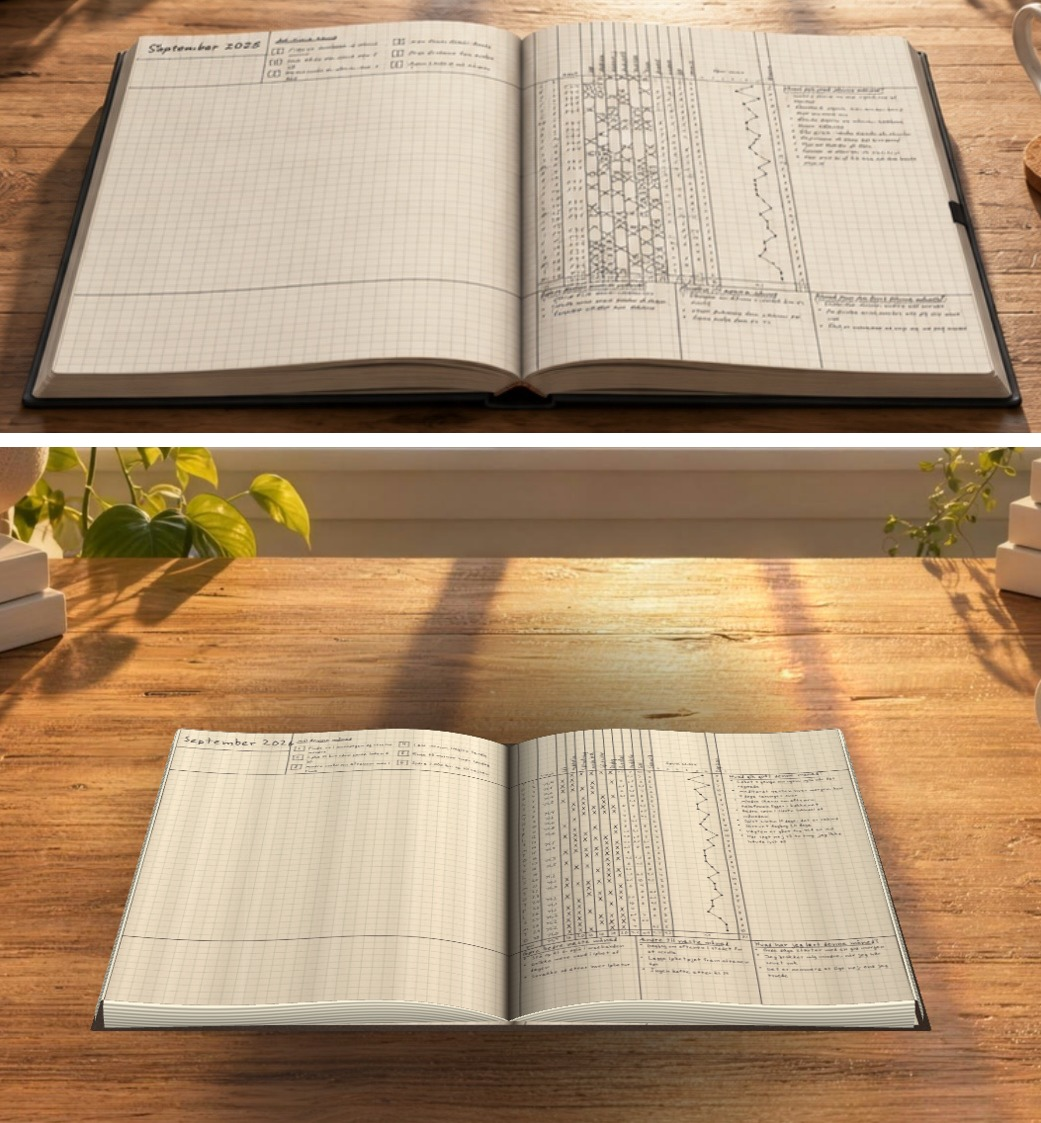
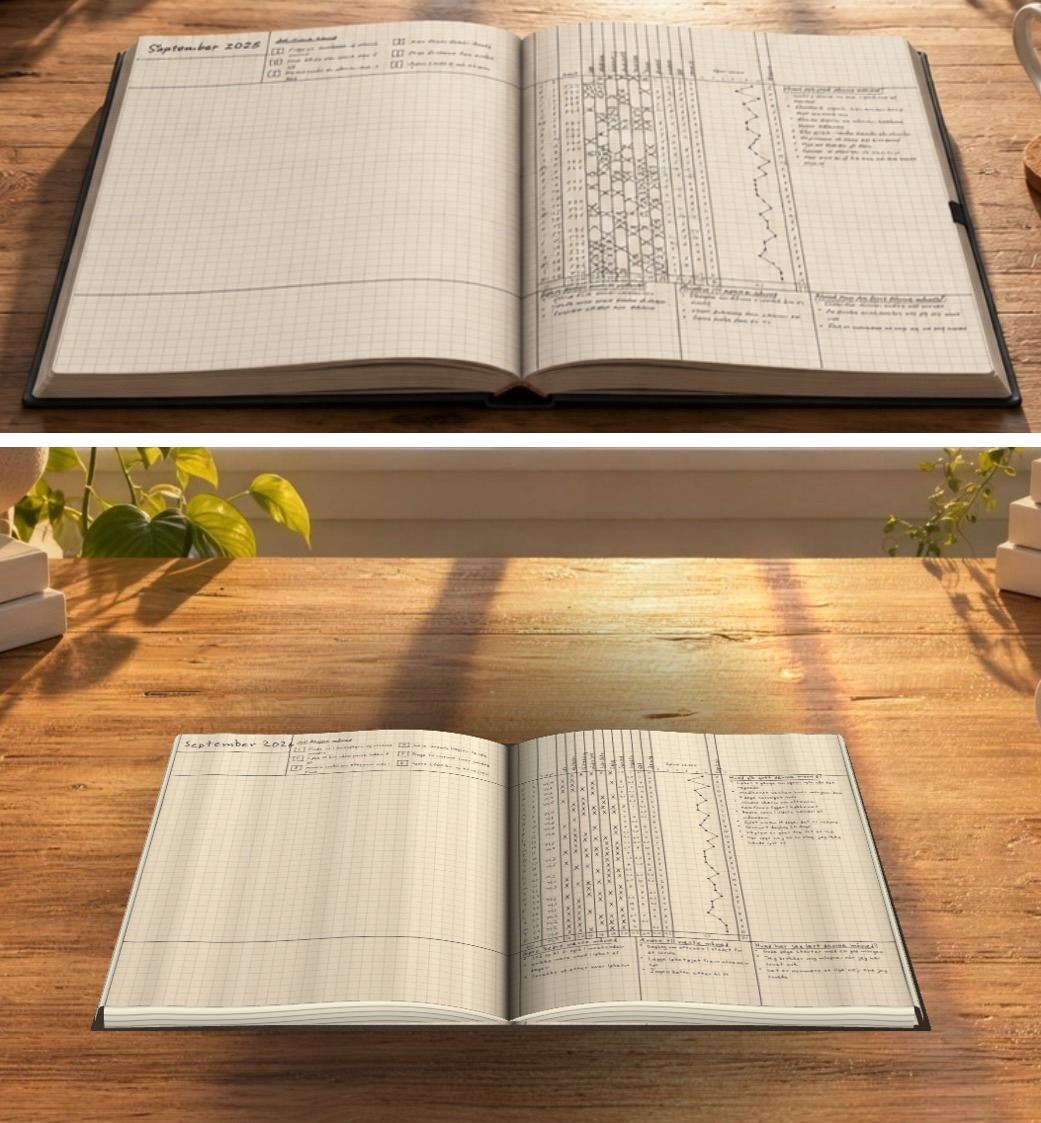
Enden af siden tipper let ned i stedet for at svinge op, og papirstakken er fine ark i stedet for ti braedder
Lukas: "ud i enderne skal den ikke gaa helt saa hoejt, den skal bare lige en lille smule ned" og "det ligner jo
kun at der har vaeret ti sider i bogen, det skal vaere nogle meget finere linjer".

PROFILEN: et DIP-led trykker de sidste 16 procent ned (smoothstep fra 0,84), og STACK er 46 -> 42. Hoejderne i
verdens-px: 7 - 41 - 51 - 48 - 41 - 39 - 39 - 40 - 40. Den topper stadig tidligt og boelger, men ender fladt i
stedet for at svinge op. DIP fader ud med buen som alt andet, saa siden stadig er praecis flad zoomet ind.

ARKENE: linjen var en sinus, som giver brede baand - deraf braedderne. Nu er den en smal moerk fure med et bredt
lyst mellemrum (cos oploeftet i 7.), og afstanden er skaaret ned fra 3 til 2,7 skaerm-px, MAALT EFTER tiltens
forkortning: stakken staar op fra braettet, saa en lodret afstand ses kun som cos(tilt) af sig selv. Uden den
korrektion kom linjerne dobbelt saa taet paa skaermen som beregnet og gav moire. Og naar de alligevel ikke kan
opløses, fader u_sheetAmp dem ud til en jaevn tone i stedet for at lade dem alias.

Maalt: pinch-ind 4/128 frames over 33 ms, pinch-ud 2/132. Tryk uaendret.

diff --git a/src/bog3d.ts b/src/bog3d.ts
@@ -22,7 +22,7 @@ import { BOOK_H, BOOK_W, COVER, PAGE_H, PAGE_W } from "./layout";
 
 /** Thickness of the cover board and of the page stack under one open half, in world px (1 cell = 20 px = 5 mm). */
 export const COVER_T = 7;
-export const STACK = 46;
+export const STACK = 42;
 /** The page does not rise in one hump. In referencer/bog-maal.jpg it waves: up out of the fold, back down
  *  through the middle, on down, and lifting again at the fore-edge. That second movement is WAVE, a full period
  *  laid over the single arch; without it the page reads as one bland slope. */
@@ -30,6 +30,8 @@ export const ARCH = 22;
 const WAVE = 0.55;
 const BOW = 0.7;   // s^BOW inside the sines: < 1 moves the movement towards the spine
 const BOW2 = 0.9;
+/** The page tips a little way back down over the last stretch to the fore-edge, rather than lifting into it. */
+const DIP = 9, DIP_FROM = 0.84;
 /** The cover sticks out past the pages by this much. It has to clear OVERHANG, or the page stack rolls out over
  *  the board and the thin dark rim around the book disappears. */
 const LIP = 30;
@@ -40,14 +42,19 @@ const OVERHANG = 20;
 const ROLL = 5;
 
 const SEG_X = 56, SEG_Y = 10; // segments per page: across the curve, and along it
-/** How dark the fold goes, and the thinnest a sheet is allowed to look (world px). */
+/** How dark the fold goes, and the thinnest a sheet is allowed to look (world px). A book of 150 leaves wants
+ *  far finer lines than a handful of thick boards, so this is kept small and only opened up as far as the
+ *  screen can still tell two of them apart. */
 const FOLD_DARK = 0.3;
-const SHEET_MIN = 1.8;
+const SHEET_MIN = 0.85;
+const SHEET_SCREEN = 2.7; // never let two lines come closer than this on screen
 
 /** Height of the page surface above the table, at distance `s` (0 at the spine, 1 at the fore-edge). */
+const smoothstep = (a: number, b: number, x: number) => { const t = Math.max(0, Math.min(1, (x - a) / (b - a))); return t * t * (3 - 2 * t); };
 export const pageZ = (s: number, arch: number) => {
   const t = Math.max(0.0005, Math.min(1, s));
-  return COVER_T + STACK * t + arch * (Math.sin(Math.PI * Math.pow(t, BOW)) + WAVE * Math.sin(2 * Math.PI * Math.pow(t, BOW2)));
+  const wave = COVER_T + STACK * t + arch * (Math.sin(Math.PI * Math.pow(t, BOW)) + WAVE * Math.sin(2 * Math.PI * Math.pow(t, BOW2)));
+  return wave - DIP * (arch / ARCH) * smoothstep(DIP_FROM, 1, t);
 };
 
 const VERT = `
@@ -66,6 +73,7 @@ uniform vec4 u_tex;        // the part of the spread the texture covers: x, y, w
 uniform vec4 u_book;       // coverT, stack, arch, pageW: the shape of the open page
 uniform float u_spine;     // x of the fold, in spread coordinates
 uniform vec3 u_bow;        // BOW, BOW2, WAVE: the shape of the page's wave
+uniform vec2 u_dip;        // how far, and from where, the page tips back down at the fore-edge
 varying vec2 v_uv;
 varying float v_shade;
 varying float v_layer;
@@ -78,7 +86,8 @@ float pageZ(float s) {
   s = clamp(s, 0.0, 1.0);
   float a = pow(max(s, 0.0005), u_bow.x);
   float b = pow(max(s, 0.0005), u_bow.y);
-  return u_book.x + u_book.y * s + u_book.z * (sin(3.14159265 * a) + u_bow.z * sin(6.2831853 * b));
+  float wave = u_book.x + u_book.y * s + u_book.z * (sin(3.14159265 * a) + u_bow.z * sin(6.2831853 * b));
+  return wave - u_dip.x * smoothstep(u_dip.y, 1.0, s);
 }
 
 void main() {
@@ -116,12 +125,15 @@ varying float v_layer;
 uniform sampler2D u_img;
 uniform vec4 u_flat;       // when a > 0: ignore the texture and use this colour (the page stack)
 uniform float u_sheets;    // one sheet every this many world px, widened when zoomed out so the lines never alias
+uniform float u_sheetAmp;  // fades the lines out when they get too close to resolve, leaving an even tone
 void main() {
   // zoomed in, the texture holds only the visible slice of the spread; the rest of the mesh is off screen anyway
   if (u_flat.a <= 0.0 && (v_uv.x < 0.0 || v_uv.x > 1.0 || v_uv.y < 0.0 || v_uv.y > 1.0)) discard;
   if (u_flat.a > 0.0) {
     // the page stack seen edge on: sheet after sheet lying on each other, never the page's own grid
-    float sheet = 0.86 + 0.14 * sin(v_layer / u_sheets * 6.2831853);
+    float ph = fract(v_layer / u_sheets);
+    float line = pow(0.5 + 0.5 * cos(ph * 6.2831853), 7.0);
+    float sheet = 1.0 - 0.34 * u_sheetAmp * line;
     gl_FragColor = vec4(u_flat.rgb * v_shade * sheet, 1.0);
     return;
   }
@@ -242,7 +254,7 @@ export function createBook3D(canvas: HTMLCanvasElement, persp: number): Book3D |
     view: loc("u_view"), scale: loc("u_scale"), origin: loc("u_origin"), trig: loc("u_trig"),
     persp: loc("u_persp"), res: loc("u_res"), tex: loc("u_tex"), flat: loc("u_flat"), img: loc("u_img"),
     book: loc("u_book"), spine: loc("u_spine"), fold: loc("u_foldDark"), sheets: loc("u_sheets"),
-    bow: loc("u_bow"),
+    bow: loc("u_bow"), dip: loc("u_dip"), amp: loc("u_sheetAmp"),
   };
   const aPos = gl.getAttribLocation(prog, "a_pos"), aMeta = gl.getAttribLocation(prog, "a_meta");
   /** One set of buffers per mesh, so a frame that changes nothing only binds them. Re-uploading both meshes
@@ -306,9 +318,15 @@ export function createBook3D(canvas: HTMLCanvasElement, persp: number): Book3D |
       gl.uniform4f(U.book, COVER_T * flat, STACK * flat, arch, PAGE_W);
       gl.uniform1f(U.spine, BOOK_W / 2);
       gl.uniform3f(U.bow, BOW, BOW2, WAVE);
+      gl.uniform2f(U.dip, DIP * (arch / ARCH), DIP_FROM);   // fades out with the curve, like everything else
       gl.uniform1f(U.fold, FOLD_DARK);
-      // a sheet must stay at least ~3 screen px apart, or the lines turn into a moire pattern
-      gl.uniform1f(U.sheets, Math.max(SHEET_MIN, 3 / Math.max(view.s, 0.001)));
+      // Two lines must stay SHEET_SCREEN px apart, or they turn into a moire pattern. The stack stands up from
+      // the board, so the tilt foreshortens it: what matters is the spacing AFTER that.
+      const fore = Math.max(Math.cos(tilt), 0.35);
+      const sheet = Math.max(SHEET_MIN, SHEET_SCREEN / Math.max(view.s * fore, 0.001));
+      gl.uniform1f(U.sheets, sheet);
+      // and if even that is too tight to resolve, fade the lines into an even tone rather than let them alias
+      gl.uniform1f(U.amp, Math.max(0, Math.min(1, (sheet * view.s * fore - 1.5) / 1.6)));
       gl.activeTexture(gl.TEXTURE0);
       gl.bindTexture(gl.TEXTURE_2D, tex);
       // board, then the page stack standing on it, then the pages on top: the board is wider than the stack,
